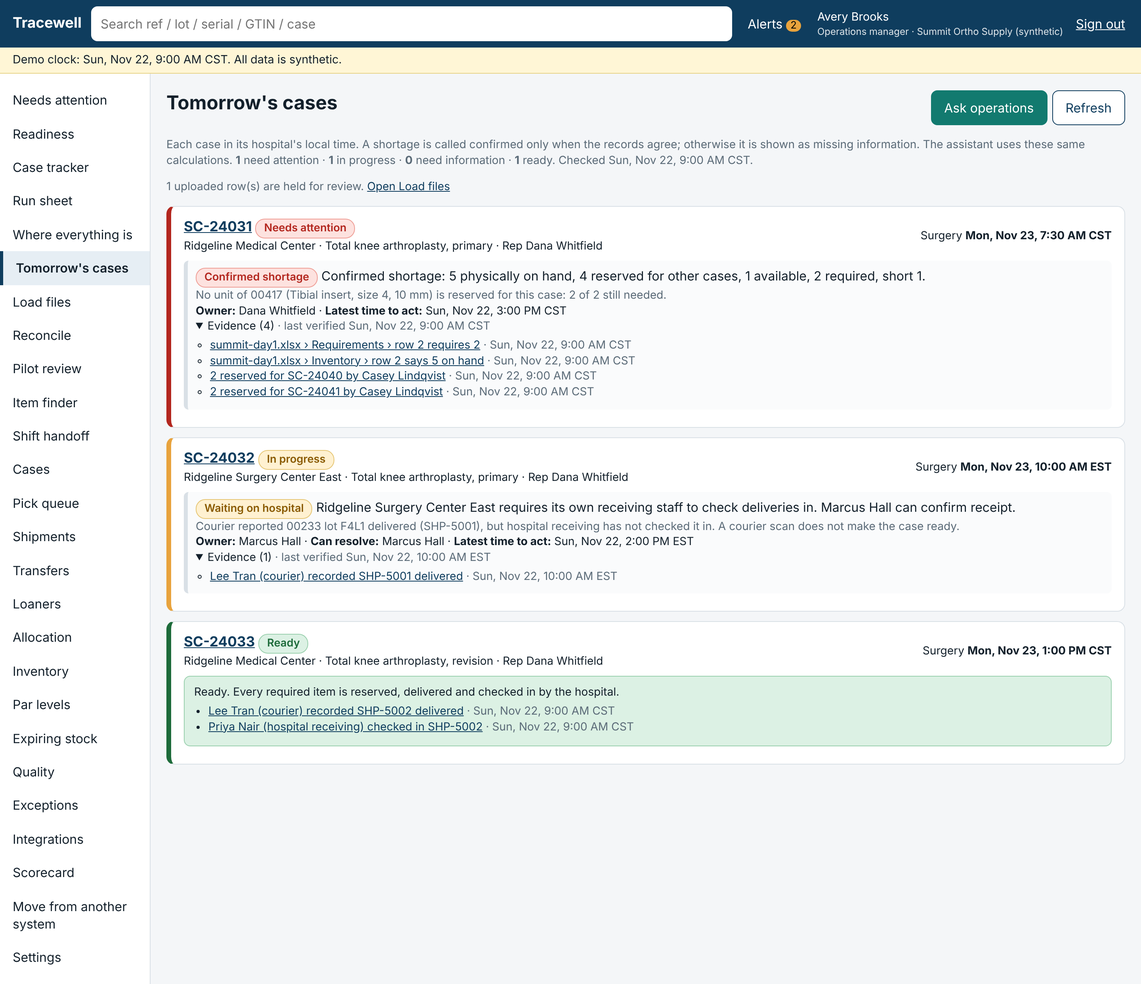
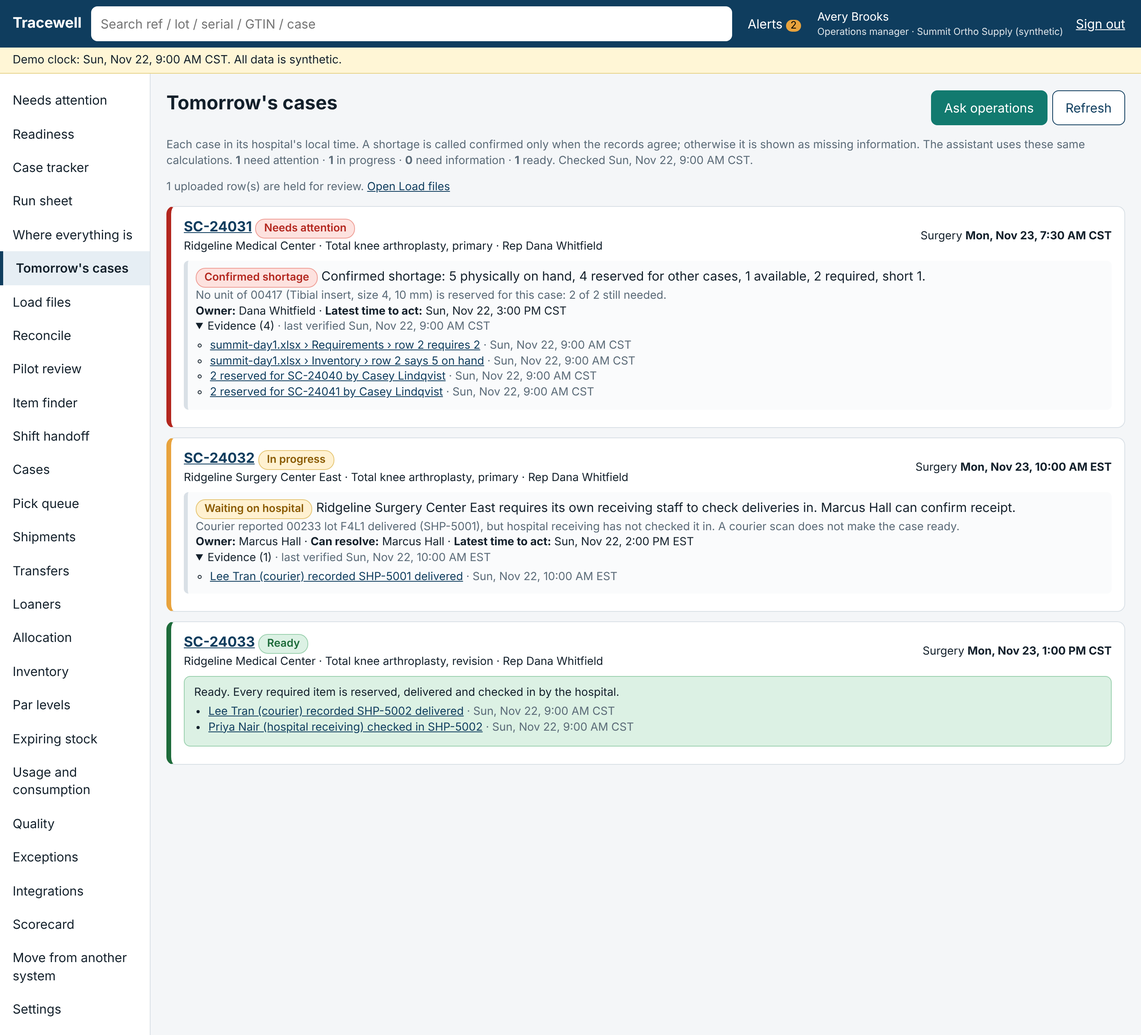
Usage and consumption, with four weeks of finished cases in the demo
- Usage report over 30/60/90 days from closeout records: units by item, hospital and rep; waste;
  days between uses; per-week average; weeks of cover; value at contract price; weekly bars.
- Replacements owed after finished cases, in the queue, with mark-replaced (who, when, order ref)
  and average days from use to replaced. Marking replaced never adds stock.
- Demo: nine finished cases over four weeks recorded through the closeout services, with
  fictional contracts and prices so they price cleanly.
- Case tracker counts sealed units left at a hospital after a finished case.
- A hosted review rebuilds its demo when the demo's contents change.

Claude-Session: https://claude.ai/code/session_01Axjjo4ZYpwGvBPpNfVL9QP

diff --git a/src/server/ops/usage.ts b/src/server/ops/usage.ts
@@ -1,0 +1,74 @@
+/**
+ * Usage and consumption, from what reps recorded at closeout: what was used, where, by whom, how often,
+ * what it is worth at contract price, and which replacements are still owed. These are counts of recorded
+ * events over the chosen period. Rates are simple averages over that period, not forecasts.
+ */
+import { AppError, Db, one, rows } from '../db.js';
+import { Ctx, requirePerm } from '../perms.js';
+import { now, nowIso } from '../clock.js';
+import { audit } from '../audit.js';
+import { fmtLocal } from '../domain/cases.js';
+import { localYmd } from '../time.js';
+
+const USED = ['implanted', 'wasted', 'opened_unused', 'damaged', 'missing']; // leaves usable stock; returned_sealed does not
+
+export async function usageReport(db: Db, ctx: Ctx & { tenantTz?: string }, opts: { days?: number } = {}) {
+  requirePerm(ctx, 'inventory.view');
+  const days = [30, 60, 90].includes(Number(opts.days)) ? Number(opts.days) : 30;
+  const t = now(); const tz = ctx.tenantTz ?? 'UTC'; const since = new Date(t.getTime() - days * 86400e3);
+  const ev = await rows(db, `select ue.id, ue.disposition, coalesce(ue.reviewed_qty_units, ue.qty_units, 0)::int qty, ue.occurred_at, ue.catalog_item_id, ci.ref, ci.description, c.id case_id, c.case_ref, f.name facility, u.display_name rep,
+      coalesce(ch.amount_cents,0)::int amount, ch.status charge_status
+    from usage_events ue join cases c on c.id=ue.case_id join facilities f on f.id=c.facility_id join catalog_items ci on ci.id=ue.catalog_item_id left join users u on u.id=c.rep_user_id left join charges ch on ch.usage_event_id=ue.id
+    where ue.status='recorded' and ue.occurred_at >= $1 order by ue.occurred_at`, [since.toISOString()]);
+  const stock = new Map((await rows(db, `select st.catalog_item_id, coalesce(sum(b.qty),0)::int usable from stock_balances b join stock_items st on st.id=b.stock_item_id join locations l on l.id=b.location_id
+     where b.qty>0 and b.condition='sealed' and l.kind in ('warehouse','trunk','consignment','hospital_receiving') and not exists (select 1 from quality_holds h where h.stock_item_id=b.stock_item_id and h.status='active') group by 1`)).map((r) => [r.catalog_item_id, r.usable]));
+  const repl = await rows(db, `select rp.id, rp.catalog_item_id, rp.qty, rp.status, rp.created_at, rp.done_at, rp.order_ref, ci.ref, ci.description, c.case_ref, c.id case_id, f.name facility, du.display_name done_by
+     from replenishments rp join catalog_items ci on ci.id=rp.catalog_item_id join cases c on c.id=rp.case_id join facilities f on f.id=c.facility_id left join users du on du.id=rp.done_by where rp.action='replace' and rp.status in ('open','done') order by rp.created_at`);
+  const weeks = Math.max(1, days / 7);
+  const items = new Map<string, any>(); const by = (m: Map<string, any>, k: string) => { if (!m.has(k)) m.set(k, { name: k, cases: new Set<string>(), units: 0, value: 0 }); return m.get(k); };
+  const hospitals = new Map<string, any>(), reps = new Map<string, any>(); const disp: Record<string, number> = {}; const caseSet = new Set<string>(); let value = 0;
+  for (const e of ev) {
+    disp[e.disposition] = (disp[e.disposition] ?? 0) + e.qty; caseSet.add(e.case_id);
+    if (!items.has(e.catalog_item_id)) items.set(e.catalog_item_id, { catalogItemId: e.catalog_item_id, ref: e.ref, description: e.description, used: 0, implanted: 0, wasted: 0, openedUnused: 0, returnedSealed: 0, value: 0, cases: new Map<string, string>() });
+    const it = items.get(e.catalog_item_id);
+    if (e.disposition === 'returned_sealed') { it.returnedSealed += e.qty; continue; }
+    if (!USED.includes(e.disposition)) continue;
+    it.used += e.qty; if (e.disposition === 'implanted') it.implanted += e.qty; if (e.disposition === 'wasted') it.wasted += e.qty; if (e.disposition === 'opened_unused') it.openedUnused += e.qty;
+    it.value += e.amount; value += e.amount; it.cases.set(e.case_id, new Date(e.occurred_at).toISOString());
+    for (const g of [by(hospitals, e.facility), by(reps, e.rep ?? 'No rep')]) { g.cases.add(e.case_id); g.units += e.qty; g.value += e.amount; }
+  }
+  const itemRows = [...items.values()].map((it) => {
+    const dates = [...it.cases.values()].sort(); const n = dates.length;
+    const gap = n > 1 ? (new Date(dates[n - 1]).getTime() - new Date(dates[0]).getTime()) / 86400e3 / (n - 1) : null;
+    const perWeek = it.used / weeks; const usable = stock.get(it.catalogItemId) ?? 0;
+    const owed = repl.filter((r) => r.catalog_item_id === it.catalogItemId && r.status === 'open').reduce((a, r) => a + r.qty, 0);
+    return { catalogItemId: it.catalogItemId, ref: it.ref, description: it.description, used: it.used, implanted: it.implanted, wasted: it.wasted, openedUnused: it.openedUnused, returnedSealed: it.returnedSealed, cases: n,
+      lastUsedLocal: n ? fmtLocal(dates[n - 1], tz) : null, daysBetweenUses: gap != null ? Math.round(gap * 10) / 10 : null, perWeek: Math.round(perWeek * 10) / 10, usableNow: usable,
+      weeksOfCover: perWeek > 0 ? Math.round((usable / perWeek) * 10) / 10 : null, replacementsOwed: owed, valueCents: it.value };
+  }).sort((a, b) => b.used - a.used || a.ref.localeCompare(b.ref));
+  // Units used per calendar week (Monday start), oldest first.
+  const wk = new Map<string, number>(); const monday = (d: Date) => { const y = localYmd(d, tz); const dt = new Date(y + 'T12:00:00Z'); dt.setUTCDate(dt.getUTCDate() - ((dt.getUTCDay() + 6) % 7)); return dt.toISOString().slice(0, 10); };
+  for (let d = new Date(since); d <= t; d = new Date(d.getTime() + 7 * 86400e3)) wk.set(monday(d), 0); wk.set(monday(t), wk.get(monday(t)) ?? 0);
+  for (const e of ev) if (USED.includes(e.disposition)) wk.set(monday(new Date(e.occurred_at)), (wk.get(monday(new Date(e.occurred_at))) ?? 0) + e.qty);
+  const done = repl.filter((r) => r.status === 'done' && r.done_at);
+  const avgReplace = done.length ? Math.round((done.reduce((a, r) => a + (new Date(r.done_at).getTime() - new Date(r.created_at).getTime()) / 86400e3, 0) / done.length) * 10) / 10 : null;
+  const open = repl.filter((r) => r.status === 'open');
+  const flat = (m: Map<string, any>) => [...m.values()].map((g) => ({ name: g.name, cases: g.cases.size, units: g.units, valueCents: g.value })).sort((a, b) => b.units - a.units);
+  const usedTotal = itemRows.reduce((a, r) => a + r.used, 0);
+  return { days, sinceLocal: fmtLocal(since, tz), asOfLocal: fmtLocal(t, tz),
+    summary: { cases: caseSet.size, unitsUsed: usedTotal, implanted: disp.implanted ?? 0, wasted: disp.wasted ?? 0, openedUnused: disp.opened_unused ?? 0, returnedSealed: disp.returned_sealed ?? 0, valueCents: value,
+      wastePct: usedTotal ? Math.round((((disp.wasted ?? 0) + (disp.opened_unused ?? 0)) / usedTotal) * 1000) / 10 : 0, replacementsOwed: open.reduce((a, r) => a + r.qty, 0), avgDaysToReplace: avgReplace, replaced: done.length },
+    items: itemRows, hospitals: flat(hospitals), reps: flat(reps), weeks: [...wk.entries()].sort().map(([week, units]) => ({ week, units })),
+    owed: open.map((r) => ({ id: r.id, ref: r.ref, description: r.description, qty: r.qty, caseRef: r.case_ref, caseId: r.case_id, facility: r.facility, sinceLocal: fmtLocal(r.created_at, tz), daysOpen: Math.floor((t.getTime() - new Date(r.created_at).getTime()) / 86400e3) })),
+    note: 'Counts of what reps recorded at closeout in this period. "Per week" and "weeks of cover" are simple averages over the period, not a forecast. Value is draft charges at contract price, not invoices.' };
+}
+
+/** Record that a replacement owed after a case has been restocked. Does not move stock: the units arrive through a count, an upload or a receipt. */
+export async function markReplaced(db: Db, ctx: Ctx, input: { ids: string[]; orderRef?: string }) {
+  requirePerm(ctx, 'par.manage');
+  const ids = [...new Set(input.ids ?? [])];
+  if (!ids.length) throw new AppError(400, 'none_selected', 'Choose at least one line');
+  const r = await db.query(`update replenishments set status='done', done_at=$2, done_by=$3, order_ref=$4 where id = any($1) and status='open' and action='replace' returning id`, [ids, nowIso(), ctx.userId, input.orderRef?.trim() || null]);
+  await audit(db, ctx, 'replenishment.done', 'replenishment', null, { ids: r.rows.map((x) => x.id), orderRef: input.orderRef ?? null });
+  return { marked: r.rowCount, remaining: (await one(db, `select coalesce(sum(qty),0)::int n from replenishments where action='replace' and status='open'`)).n };
+}

diff --git a/src/server/pilot/demo-account.ts b/src/server/pilot/demo-account.ts
@@ -41,6 +41,8 @@ async function workbook(sheet: string, head: string[], body: string[][]) {
   return Buffer.from(await wb.xlsx.writeBuffer());
 }
 
+/** Raised whenever the demo's contents change, so a hosted review rebuilds itself on the next deploy. */
+export const DEMO_VERSION = 3;
 export interface DemoOpts {
   day?: string;
   /** Review deployment: named sign-ins with their own passwords; every built-in persona gets an unguessable password. */
@@ -142,6 +144,64 @@ export async function seedDemoAccount(opts: DemoOpts = {}) {
   // Labels carry GS1 identifiers so the phone can scan them.
   await tx(async (db) => { let n = 0; for (const it of await rows(db, `select id from catalog_items order by ref`)) await db.query(`update catalog_items set unit_gtin=$2 where id=$1`, [it.id, gtinWithCheckDigit('0061414' + String(200100 + ++n))]); });
 
+  // ---- Four weeks of finished cases, so usage and consumption have something real to show ----
+  // Each one is recorded through the same services a rep's closeout uses, at the time it happened.
+  const HIST: [string, number, 'mrm' | 'hsc', [string, number, 'implanted' | 'wasted' | 'opened_unused' | 'returned_sealed'][]][] = [
+    ['NL-2961', 20, 'mrm', [['00417', 1, 'implanted'], ['00233', 1, 'implanted'], ['08810', 3, 'implanted']]],
+    ['NL-2964', 18, 'hsc', [['00417', 1, 'implanted'], ['00612', 1, 'implanted'], ['08810', 2, 'implanted'], ['08810', 1, 'wasted']]],
+    ['NL-2970', 15, 'mrm', [['00417', 1, 'implanted'], ['00720', 1, 'implanted']]],
+    ['NL-2975', 13, 'mrm', [['00233', 1, 'implanted'], ['08810', 4, 'implanted']]],
+    ['NL-2981', 11, 'hsc', [['00417', 1, 'implanted'], ['00720', 1, 'implanted'], ['00550', 1, 'implanted']]],
+    ['NL-2988', 8, 'mrm', [['00417', 1, 'implanted'], ['00233', 1, 'implanted'], ['00233', 1, 'opened_unused']]],
+    ['NL-2995', 6, 'hsc', [['00612', 1, 'implanted'], ['08810', 3, 'implanted']]],
+    ['NL-3004', 4, 'mrm', [['00417', 1, 'implanted'], ['00720', 1, 'implanted'], ['08810', 2, 'implanted']]],
+    ['NL-3011', 3, 'hsc', [['00417', 1, 'implanted'], ['00550', 1, 'returned_sealed']]],
+  ];
+  // Fictional contracts and prices for both hospitals, so finished cases price cleanly.
+  await tx(async (db) => {
+    for (const [fid, name] of [[ids.mrm, 'Marlowe Regional implant agreement'], [ids.hsc, 'Harlan Surgery Center implant agreement']]) {
+      const k = (await db.query(`insert into contracts(tenant_id,facility_id,name) values ($1,$2,$3) returning id`, [T, fid, name])).rows[0].id;
+      const v = (await db.query(`insert into contract_versions(tenant_id,contract_id,version,effective_from,approved_by) values ($1,$2,1,'2026-01-01','Account setup') returning id`, [T, k])).rows[0].id;
+      for (const [ref, cents] of [['00417', 92000], ['00233', 318000], ['00612', 318000], ['00720', 205000], ['00550', 64000], ['08810', 7800]] as const)
+        await db.query(`insert into contract_prices(tenant_id,contract_version_id,catalog_item_id,unit_price_cents,price_date) values ($1,$2,(select id from catalog_items where ref=$3),$4,'2026-01-01')`, [T, v, ref, cents]);
+      const rule = (d: string, c: string, r: string, txt: string) => db.query(`insert into contract_rules(tenant_id,contract_version_id,disposition,charge_action,replenish_action,billing_mode,rule_text) values ($1,$2,$3,$4,$5,'bill_and_replace',$6)`, [T, v, d, c, r, txt]);
+      await rule('implanted', 'charge', 'replace', 'Implant placed: bill at contract price and replace.');
+      await rule('wasted', 'charge', 'replace', 'Opened and wasted in the case: billed and replaced.');
+      await rule('opened_unused', 'no_charge', 'replace', 'Opened, not used: no charge; replace.');
+      await rule('damaged', 'no_charge', 'replace', 'Damaged: no charge; replace.');
+      await rule('returned_sealed', 'no_charge', 'none', 'Returned sealed: no charge; back to stock.');
+      await rule('missing', 'review', 'review', 'Missing: finance review.');
+    }
+  });
+  for (const [ref, back, site, lines] of HIST) {
+    let d = DAY; for (let i = 0; i < back; i++) d = prevBiz(d);
+    const tz = site === 'mrm' ? TZ : EAST; const repKey = site === 'mrm' ? 'repDana' : 'repChris'; const recv = site === 'mrm' ? ids.lMrm : ids.lHsc; const rep = await ctx(repKey);
+    await setClock(zoned(prevBiz(d), '14:00', tz));            // the afternoon before: entered, stock checked in at the hospital, reserved
+    const start = zoned(d, '08:00', tz);
+    const need = new Map<string, number>(); for (const [item, n] of lines) need.set(item, (need.get(item) ?? 0) + n);
+    const cid = await tx(async (db) => {
+      const c = (await db.query(`insert into cases(tenant_id, case_ref, facility_id, procedure, surgeon_ref, scheduled_start, status, rep_user_id, created_by, created_at) values ($1,$2,$3,$4,$5,$6,'scheduled',$7,$8,$9) returning id`,
+        [T, ref, site === 'mrm' ? ids.mrm : ids.hsc, P, site === 'mrm' ? 'Surgeon S-104' : 'Surgeon S-221', start.toISOString(), ids[repKey], ids.coordinator, now().toISOString()])).rows[0].id as string;
+      for (const [item, n] of need) {
+        const ci = await one(db, `select id from catalog_items where ref=$1`, [item]);
+        const rq = (await db.query(`insert into case_requirements(tenant_id, case_id, catalog_item_id, qty, mandatory) values ($1,$2,$3,$4,true) returning id`, [T, c, ci.id, n])).rows[0].id;
+        const si = (await db.query(`insert into stock_items(tenant_id, catalog_item_id, lot_number, expiry_date, is_serial, data_source) values ($1,$2,$3,$4,false,'seed') on conflict (tenant_id, catalog_item_id, lot_number) where serial_number is null do update set lot_number=excluded.lot_number returning id`, [T, ci.id, `H${item.slice(-3)}`, addDaysYmd(DAY, 400)])).rows[0].id;
+        await applyMovement(db, coord, { stockItemId: si, qty: n, ownerPartyId: ids.dist, to: { locationId: recv, condition: 'sealed' }, type: 'receipt', reason: `Delivered and checked in for ${ref}`, caseId: c, idempotencyKey: `hist:${ref}:${item}` });
+        const { reserve } = await import('../domain/inventory.js');
+        await reserve(db, coord, { caseId: c, requirementId: rq, stockItemId: si, locationId: recv, ownerPartyId: ids.dist, qty: n });
+      }
+      return c;
+    });
+    await setClock(new Date(start.getTime() + 150 * 60e3));    // after the surgery: the rep records what was used and closes out
+    const { recordUsage, submitCloseout } = await import('../domain/closeout.js');
+    let k = 0;
+    for (const [item, n, disp] of lines) { const r = await tx((db) => recordUsage(db, rep, { clientEventId: `hist:${ref}:${++k}`, caseId: cid, disposition: disp, entryMethod: 'manual', manual: { ref: item, lot: `H${item.slice(-3)}` }, qtyUnits: n })); if (r.status !== 'recorded') throw new Error(`history ${ref} ${item}: ${r.reviewReason}`); }
+    await tx((db) => submitCloseout(db, rep, cid, {}));
+    // Older cases have had their replacements restocked two business days later; the last few are still owed.
+    if (back >= 8) { await setClock(zoned(nextBiz(d, 2), '11:00', TZ)); await tx(async (db) => { const { markReplaced } = await import('../ops/usage.js'); const open = await rows(db, `select id from replenishments where case_id=$1 and status='open' and action='replace'`, [cid]); if (open.length) await markReplaced(db, coord, { ids: open.map((o) => o.id), orderRef: `PO-${ref.slice(3)}` }); }); }
+  }
+  await setClock(zoned(prev, '15:40', TZ));
+
   // Loaner instrument trays (serialized), with an approved manifest.
   const trayIds = await tx(async (db) => {
     const mfr = (await one(db, `select id from parties where kind='manufacturer'`)).id;
@@ -210,5 +270,6 @@ export async function seedDemoAccount(opts: DemoOpts = {}) {
     await par(ids.lwh, '00417', 6); await par(ids.lwh, '00233', 4); await par(ids.lwh, '00550', 2); await par(ids.lwh, '00720', 3); await par(ids.lChris, '00417', 1); await par(ids.lDana, '00720', 1);
   });
   await setClock(zoned(DAY, '09:00', TZ));
+  await q(`insert into system_settings(key,value) values('demo_version',$1) on conflict(key) do update set value=excluded.value`, [JSON.stringify(DEMO_VERSION)]);
   return { tenantId: T, day: DAY, tomorrow };
 }

diff --git a/src/web/pages/Usage.tsx b/src/web/pages/Usage.tsx
@@ -1,0 +1,47 @@
+/** Usage and consumption: what was used, where, by whom, how often, its value at contract price, and replacements still owed. */
+import React, { useState } from 'react';
+import { Link } from 'react-router-dom';
+import { useData, useMe, Err } from '../App';
+import { money, post } from '../lib/api';
+
+export function UsageReport() {
+  const { can } = useMe();
+  const [days, setDays] = useState(30);
+  const { data, error, reload } = useData<any>(`/api/usage-report?days=${days}`, [days]);
+  const [sel, setSel] = useState<Record<string, boolean>>({}); const [po, setPo] = useState(''); const [msg, setMsg] = useState<string | null>(null); const [err, setErr] = useState<string | null>(null);
+  const s = data?.summary; const max = Math.max(1, ...(data?.weeks ?? []).map((w: any) => w.units));
+  const ids = Object.keys(sel).filter((k) => sel[k]);
+  const mark = async () => { setErr(null); setMsg(null); try { const r = await post('/api/replenishments/done', { ids, orderRef: po }); setMsg(`${r.marked} line(s) marked replaced. ${r.remaining} unit(s) still owed.`); setSel({}); setPo(''); reload(); } catch (e: any) { setErr(e.message); } };
+  return (<div>
+    <h1>Usage and consumption</h1>
+    <p className="muted small">{data ? `${data.sinceLocal} to ${data.asOfLocal}. ` : ''}{data?.note}</p>
+    <div className="row tight" role="group" aria-label="Period">{[30, 60, 90].map((d) => <button key={d} className={days === d ? '' : 'secondary'} aria-pressed={days === d} onClick={() => setDays(d)}>Last {d} days</button>)}</div>
+    <Err e={error ?? err} />{msg && <div className="ok" role="status">{msg}</div>}
+    {s && <div className="nums" data-testid="usage-summary">
+      <div className="num"><span className="num-v">{s.cases}</span><span className="num-l">cases finished</span></div>
+      <div className="num"><span className="num-v">{s.unitsUsed}</span><span className="num-l">units used</span></div>
+      <div className="num"><span className="num-v">{s.implanted}</span><span className="num-l">implanted</span></div>
+      <div className={`num ${s.wasted + s.openedUnused ? 'bad' : ''}`}><span className="num-v">{s.wasted + s.openedUnused}</span><span className="num-l">wasted or opened unused ({s.wastePct}%)</span></div>
+      <div className="num"><span className="num-v">{money(s.valueCents)}</span><span className="num-l">at contract price (draft)</span></div>
+      <div className={`num ${s.replacementsOwed ? 'bad' : 'good'}`}><span className="num-v">{s.replacementsOwed}</span><span className="num-l">replacement units owed</span></div>
+      <div className="num"><span className="num-v">{s.avgDaysToReplace ?? '—'}</span><span className="num-l">avg days, use to replaced</span></div></div>}
+    {data && <section className="card"><h2 style={{ marginTop: 0 }}>Units used per week</h2>
+      <div className="bars" role="img" aria-label={`Units used per week: ${data.weeks.map((w: any) => `${w.week} ${w.units}`).join(', ')}`}>{data.weeks.map((w: any) => <div key={w.week} className="bar-col"><span className="small">{w.units}</span><div className="bar" style={{ height: `${Math.round((w.units / max) * 100)}%` }} /><span className="tiny muted">wk of {w.week.slice(5)}</span></div>)}</div></section>}
+    <h2>By item</h2>
+    <div className="table-wrap"><table aria-label="Usage by item"><thead><tr><th>Item</th><th>Used</th><th>Implanted</th><th>Wasted / opened unused</th><th>Cases</th><th>Last used</th><th>Days between uses</th><th>Per week</th><th>Usable now</th><th>Weeks of cover</th><th>Owed</th><th>Value</th></tr></thead>
+      <tbody>{data?.items.map((r: any) => <tr key={r.catalogItemId} data-item={r.ref}><td><strong>{r.ref}</strong><div className="small muted">{r.description}</div></td><td><strong>{r.used}</strong></td><td>{r.implanted}</td><td>{r.wasted + r.openedUnused || '—'}</td><td>{r.cases}</td><td className="small">{r.lastUsedLocal ?? '—'}</td><td>{r.daysBetweenUses ?? '—'}</td><td>{r.perWeek}</td><td>{r.usableNow}</td>
+        <td>{r.weeksOfCover == null ? '—' : <span className={`badge ${r.weeksOfCover < 1 ? 'st-blocked' : r.weeksOfCover < 2 ? 'st-at_risk' : 'st-ready'}`}>{r.weeksOfCover}</span>}</td><td>{r.replacementsOwed || '—'}</td><td>{money(r.valueCents)}</td></tr>)}
+        {data && !data.items.length && <tr><td colSpan={12} className="muted">No usage was recorded in this period.</td></tr>}</tbody></table></div>
+    <div className="row" style={{ alignItems: 'flex-start' }}>
+      {[['By hospital', data?.hospitals], ['By rep', data?.reps]].map(([title, list]: any) => <div key={title} style={{ flex: 1, minWidth: 300 }}><h2>{title}</h2><div className="table-wrap"><table aria-label={title}><thead><tr><th>{title.slice(3)}</th><th>Cases</th><th>Units</th><th>Value</th></tr></thead>
+        <tbody>{list?.map((g: any) => <tr key={g.name}><td>{g.name}</td><td>{g.cases}</td><td>{g.units}</td><td>{money(g.valueCents)}</td></tr>)}</tbody></table></div></div>)}
+    </div>
+    <h2>Replacements owed ({data?.owed.length ?? 0})</h2>
+    <p className="small muted">Each line is stock a contract says must be replaced after a case. Marking it replaced records when and against which order; it does not add stock (that arrives through a receipt, count or upload).</p>
+    <div className="table-wrap"><table aria-label="Replacements owed"><thead><tr><th></th><th>Item</th><th>Qty</th><th>From case</th><th>Hospital</th><th>Owed since</th><th>Days open</th></tr></thead>
+      <tbody>{data?.owed.map((r: any) => <tr key={r.id}><td>{can('par.manage') && <input type="checkbox" aria-label={`Select ${r.ref} from ${r.caseRef}`} checked={!!sel[r.id]} onChange={(e) => setSel({ ...sel, [r.id]: e.target.checked })} />}</td><td>{r.ref}<div className="small muted">{r.description}</div></td><td>{r.qty}</td><td><Link to={`/cases/${r.caseId}`}>{r.caseRef}</Link></td><td>{r.facility}</td><td className="small">{r.sinceLocal}</td><td>{r.daysOpen}</td></tr>)}
+        {data && !data.owed.length && <tr><td colSpan={7} className="muted">Nothing is owed.</td></tr>}</tbody></table></div>
+    {can('par.manage') && data?.owed.length > 0 && <div className="row"><label className="field">Order or PO reference (optional)<input value={po} onChange={(e) => setPo(e.target.value)} /></label><button disabled={!ids.length} onClick={mark}>Mark {ids.length || ''} replaced</button>
+      <button className="secondary" onClick={() => setSel(Object.fromEntries(data.owed.map((r: any) => [r.id, true])))}>Select all</button></div>}
+  </div>);
+}

diff --git a/tests/integration/command.test.ts b/tests/integration/command.test.ts
@@ -288,6 +288,44 @@ describe('Visibility views (fresh demo)', () => {
   });
 });
 
+describe('Usage and consumption (fresh demo)', () => {
+  beforeAll(async () => { T = (await seedDemoAccount({ day: '2026-11-23' })).tenantId; app = await httpApp(); });
+  it('totals match the recorded usage events and the ledger; finished cases price without exceptions', async () => {
+    const u = await get(U.ops, '/api/usage-report?days=30');
+    const db = (await tx((d) => d.query(`select coalesce(sum(qty_units) filter (where disposition<>'returned_sealed'),0)::int used, count(distinct case_id)::int cases from usage_events where status='recorded'`))).rows[0];
+    expect(u.summary).toMatchObject({ cases: db.cases, unitsUsed: db.used, implanted: 30, wasted: 1, openedUnused: 1, returnedSealed: 1 });
+    expect(u.items.reduce((a: number, r: any) => a + r.used, 0)).toBe(db.used);
+    expect((await tx((d) => d.query(`select coalesce(sum(qty),0)::int n from inventory_movements where movement_type='consume'`))).rows[0].n).toBe(u.summary.implanted + u.summary.wasted); // opened-unused is a condition change, not a consume
+    expect(u.summary.valueCents).toBe((await tx((d) => d.query(`select coalesce(sum(amount_cents),0)::int n from charges`))).rows[0].n);
+    expect((await tx((d) => d.query(`select count(*)::int n from exceptions where status='open' and kind like 'finance%'`))).rows[0].n).toBe(0);
+    const top = u.items[0];
+    expect(top).toMatchObject({ ref: '08810', used: 15, implanted: 14, wasted: 1, cases: 5, usableNow: 30 });
+    expect(top.perWeek).toBe(3.5); expect(top.weeksOfCover).toBe(8.6);
+    expect(u.items.find((r: any) => r.ref === '00417')).toMatchObject({ used: 7, cases: 7, replacementsOwed: 2 });
+    expect(u.hospitals.reduce((a: number, h: any) => a + h.units, 0)).toBe(db.used);
+    expect(u.weeks.reduce((a: number, w: any) => a + w.units, 0)).toBe(db.used);
+    expect((await (await app.as(U.recvMarlowe)).get('/api/usage-report')).statusCode).toBe(403);
+  });
+  it('replacements owed: listed, in the queue, and marking them replaced records who, when and the order', async () => {
+    const u = await get(U.ops, '/api/usage-report');
+    expect(u.summary).toMatchObject({ replacementsOwed: 9, avgDaysToReplace: expect.any(Number) });
+    expect(u.owed).toHaveLength(6);
+    expect((await get(U.ops, '/api/attention')).items.find((i: any) => i.kind === 'replacements').title).toBe('9 replacement unit(s) owed after 3 finished case(s)');
+    expect((await post(U.repDana, '/api/replenishments/done', { ids: [u.owed[0].id] })).statusCode).toBe(403);
+    const r = await post(U.coordinator, '/api/replenishments/done', { ids: u.owed.slice(0, 2).map((o: any) => o.id), orderRef: 'PO-7781' });
+    expect(r.json()).toMatchObject({ marked: 2, remaining: 5 });
+    expect((await post(U.coordinator, '/api/replenishments/done', { ids: [u.owed[0].id] })).json().marked).toBe(0);
+    expect((await tx((d) => d.query(`select count(*)::int n from replenishments where order_ref='PO-7781' and done_by is not null and done_at is not null`))).rows[0].n).toBe(2);
+    const before = (await get(U.ops, '/api/stock/where')).items.find((i: any) => i.ref === '08810').total;
+    expect(before).toBe(30); // marking replaced never adds stock
+  });
+  it('the tracker shows finished cases with usage recorded', async () => {
+    const t = await get(U.ops, '/api/case-tracker');
+    expect(t.recent.find((c: any) => c.caseRef === 'NL-3011')).toMatchObject({ stageName: 'Usage recorded', leftAtSite: 1 });
+    expect(t.toBringBack).toBeGreaterThanOrEqual(1);
+  });
+});
+
 describe('Declining a transfer', () => {
   it('releases the unit, records why, and tells the owner', async () => {
     T = (await seedDemoAccount({ day: '2026-11-23' })).tenantId; app = await httpApp();

diff --git a/src/server/ops/visibility.ts b/src/server/ops/visibility.ts
@@ -63,7 +63,7 @@ export async function caseTracker(db: Db, ctx: Ctx) {
       (select count(*)::int from usage_events ue where ue.case_id=c.id and ue.status='recorded') usage,
       (select count(*)::int from usage_events ue where ue.case_id=c.id and ue.status='needs_review') usage_review,
       (select coalesce(sum(b.qty),0)::int from stock_balances b join locations l on l.id=b.location_id where l.facility_id=c.facility_id and l.kind in ('hospital_receiving','hospital_spd') and b.qty>0
-         and b.stock_item_id in (select sl.stock_item_id from shipment_lines sl join shipments sh on sh.id=sl.shipment_id where sh.case_id=c.id)) left_at_site,
+         and b.condition='sealed' and b.stock_item_id in (select r.stock_item_id from reservations r where r.case_id=c.id and r.status='released')) left_at_site,
       (select string_agg(ln.ref, ', ') from loaner_requests ln where ln.case_id=c.id and ln.status in ('requested','confirmed','shipped','received')) loaners,
       (select string_agg(tr.ref, ', ') from transfer_requests tr where tr.case_id=c.id and tr.status='requested') transfers
     from cases c join facilities f on f.id=c.facility_id left join users u on u.id=c.rep_user_id
@@ -78,7 +78,7 @@ export async function caseTracker(db: Db, ctx: Ctx) {
     const idx = done.findIndex((d) => !d); const stage = idx === -1 ? STAGES.length - 1 : idx - 1;
     const waiting = idx === -1 ? null : idx === 1 ? (c.reqs === 0 ? 'Requirements have not been loaded' : `${c.need - c.held} unit(s) still to reserve${c.transfers ? ` (${c.transfers} awaiting acceptance)` : ''}${c.loaners ? ` (${c.loaners} on the way)` : ''}`)
       : idx === 2 ? (c.not_left ? `${c.not_left} shipment(s) not yet picked up` : 'Delivery not planned') : idx === 3 ? (c.delivered ? 'Hospital receiving to check the delivery in' : c.on_road ? 'On the road' : 'Not all items are at the hospital')
-      : idx === 4 ? (past ? 'Rep to complete the case and record what was used' : null) : idx === 5 ? (c.usage_review ? `${c.usage_review} usage record(s) need review` : 'Usage to be recorded') : (c.left_at_site ? `${c.left_at_site} unit(s) still at the hospital to bring back` : 'Closeout to finish');
+      : idx === 4 ? (past ? 'Rep to complete the case and record what was used' : null) : idx === 5 ? (c.usage_review ? `${c.usage_review} usage record(s) need review` : 'Usage to be recorded') : (c.left_at_site ? `${c.left_at_site} unit(s) still at the hospital to bring back` : 'Finance to finish billing');
     return { id: c.id, caseRef: c.case_ref, facility: c.facility, rep: c.rep, procedure: c.procedure, startLocal: fmtLocal(c.scheduled_start, c.timezone), enteredLocal: fmtLocal(c.created_at, c.timezone), past, status: c.status,
       stage, stageName: STAGES[stage], steps: STAGES.map((n, i) => ({ name: n, done: done[i] })), waitingOn: waiting, behind: !!waiting && (idx <= 3 ? hoursTo(c.scheduled_start, t) < 24 : past && hoursTo(c.scheduled_start, t) < -24),
       leftAtSite: doneCase ? c.left_at_site : 0, loaners: c.loaners, transfers: c.transfers };

diff --git a/src/web/pages/Review.tsx b/src/web/pages/Review.tsx
@@ -55,7 +55,7 @@ const STEPS: { title: string; changed: string; do: React.ReactNode; ask: string 
     do: <>Open <Link to="/quality">Quality</Link> and click <strong>RCL-001</strong>. The top of the page now gives the counts and a numbered action list with links to each affected case. Click <strong>Activate recall</strong>, then return to <Link to="/attention">Needs attention</Link>: the affected cases are flagged.</> },
   { title: 'The rest of the inventory lifecycle, and moving from RedSpot or Salesforce', changed: 'You said: par levels, expiration, allocation by priority rule, one system for the whole lifecycle.',
     ask: 'Overall: is this closer to worth a pilot? What is the one thing that would still have to be true first?',
-    do: <>New since your review: <Link to="/tracker">Case tracker</Link> (each case from entry to close, with what it is waiting on), <Link to="/stock/where">Where everything is</Link> (warehouse, reps, hospitals, in transit) and the <Link to="/run-sheet">Run sheet</Link> (what must leave, in deadline order). Also look at <Link to="/allocation">Allocation</Link> (demand against stock, first case entered served first), <Link to="/stock/par">Par levels</Link>, <Link to="/stock/expiring">Expiring stock</Link>, and <Link to="/move-in">Move from another system</Link>, which shows how records come across from RedSpot or Salesforce exports. Two things are deliberately not built yet because they need real history to be honest: demand forecasting and courier route optimization.</> },
+    do: <>New since your review: <Link to="/tracker">Case tracker</Link> (each case from entry to close, with what it is waiting on), <Link to="/stock/where">Where everything is</Link> (warehouse, reps, hospitals, in transit) the <Link to="/run-sheet">Run sheet</Link> (what must leave, in deadline order) and <Link to="/usage">Usage and consumption</Link> (what was used, where, how often, its value at contract price, and replacements still owed, from four weeks of finished demo cases). Also look at <Link to="/allocation">Allocation</Link> (demand against stock, first case entered served first), <Link to="/stock/par">Par levels</Link>, <Link to="/stock/expiring">Expiring stock</Link>, and <Link to="/move-in">Move from another system</Link>, which shows how records come across from RedSpot or Salesforce exports. Two things are deliberately not built yet because they need real history to be honest: demand forecasting and courier route optimization. The usage rates shown are simple averages, labeled as such.</> },
 ];
 
 export function ReviewGuide() {

diff --git a/src/server/ops/queue.ts b/src/server/ops/queue.ts
@@ -189,6 +189,8 @@ export async function attentionQueue(db: Db, actx: AssistantCtx, opts: { by?: st
       const below = par.rows.filter((r: any) => r.status === 'below');
       if (below.length) push({ id: 'par', priority: 'medium', kind: 'par', title: `${below.length} item(s) below par`, why: below.slice(0, 3).map((r: any) => `${r.ref} at ${r.location}: ${r.usable} usable against a par of ${r.par}`).join('; '), recommended: 'Replenish to par, or adjust the par if demand has changed.', link: '/stock/par' });
     }
+    if (can(actx, 'inventory.view')) { const o = await one(db, `select coalesce(sum(qty),0)::int n, count(distinct case_id)::int cases, min(created_at) oldest from replenishments where action='replace' and status='open'`);
+      if (o.n) push({ id: 'replace', priority: 'medium', kind: 'replacements', title: `${o.n} replacement unit(s) owed after ${o.cases} finished case(s)`, why: `The oldest has been owed since ${fmtLocal(o.oldest, tz)}. Until they are restocked, on-hand runs below what the contracts expect.`, recommended: 'Order or restock them, then mark them replaced.', link: '/usage' }); }
     if (can(actx, 'upload.view')) { const d = (await one(db, `select count(*)::int n from stock_discrepancies where status='open'`)).n; if (d) push({ id: 'reconcile', priority: 'medium', kind: 'reconcile', title: `${d} spreadsheet difference(s) waiting to be reconciled`, why: 'A newer file and the system disagree about a quantity. Readiness for affected cases is shown as "not confirmed" until someone decides.', recommended: 'Decide each difference.', link: '/reconcile' }); }
   }
   items.sort((a, b) => RANK[a.priority] - RANK[b.priority] || (a.minutesLeft ?? 1e9) - (b.minutesLeft ?? 1e9) || String(a.caseRef).localeCompare(String(b.caseRef)));

diff --git a/src/web/App.tsx b/src/web/App.tsx
@@ -11,6 +11,7 @@ import { Tomorrow, Reconcile, PilotReview, PilotReport } from './pages/Pilot';
 import { Attention, Transfers, TransferDetail, Loaners, LoanerDetail, ParLevels, Expiring, Allocation, OpsSettings } from './pages/Command';
 import { MoveIn } from './pages/MoveIn';
 import { WhereIsEverything, CaseTracker, RunSheet } from './pages/Visibility';
+import { UsageReport } from './pages/Usage';
 import { ReviewGuide, FeedbackList, FeedbackButton } from './pages/Review';
 import { Rescue } from './pages/Rescue';
 import { Shipments, ShipmentDetail, PickQueue } from './pages/Shipments';
@@ -117,6 +118,7 @@ const NAV: { to: string; label: string; perm?: string; roles?: string[]; review?
   { to: '/inventory', label: 'Inventory', perm: 'inventory.view' },
   { to: '/stock/par', label: 'Par levels', perm: 'inventory.view' },
   { to: '/stock/expiring', label: 'Expiring stock', perm: 'inventory.view' },
+  { to: '/usage', label: 'Usage and consumption', perm: 'inventory.view' },
   { to: '/import', label: 'Import', perm: 'import.run' },
   { to: '/counts', label: 'Counts', perm: 'count.perform' },
   { to: '/finance', label: 'Finance', perm: 'finance.manage' },
@@ -178,6 +180,7 @@ function Shell({ me, refresh }: { me: Me; refresh: () => void }) {
             <Route path="/settings/ops" element={<OpsSettings />} />
             <Route path="/move-in" element={<MoveIn />} />
             <Route path="/tracker" element={<CaseTracker />} />
+            <Route path="/usage" element={<UsageReport />} />
             <Route path="/run-sheet" element={<RunSheet />} />
             <Route path="/stock/where" element={<WhereIsEverything />} />
             <Route path="/today" element={<MobileHome />} />

diff --git a/src/server/app.ts b/src/server/app.ts
@@ -36,6 +36,7 @@ import * as opsTransfers from './ops/transfers.js';
 import * as opsLoaners from './ops/loaners.js';
 import * as opsStock from './ops/stock.js';
 import * as opsVis from './ops/visibility.js';
+import * as opsUsage from './ops/usage.js';
 import { AVAILABILITY_SQL, ledgerReconciliation, reverseMovement, reserve } from './domain/inventory.js';
 import { parseScan } from '../shared/gs1.js';
 
@@ -257,6 +258,8 @@ export async function buildApp() {
   r('GET', '/api/stock/where', 'inventory.view', async (db, ctx) => opsVis.whereIsEverything(db, await actxOf(db, ctx)));
   r('GET', '/api/case-tracker', 'board.view', async (db, ctx) => opsVis.caseTracker(db, ctx));
   r('GET', '/api/run-sheet', 'board.view', async (db, ctx) => opsVis.runSheet(db, await actxOf(db, ctx)));
+  r('GET', '/api/usage-report', 'inventory.view', async (db, ctx, req) => opsUsage.usageReport(db, await actxOf(db, ctx), { days: Number(Q(req).days) }));
+  r('POST', '/api/replenishments/done', 'par.manage', async (db, ctx, req) => opsUsage.markReplaced(db, ctx, B(req)));
   r('GET', '/api/stock/expiring', 'inventory.view', async (db, ctx) => opsStock.expiringStock(db, await actxOf(db, ctx)));
   r('GET', '/api/people', 'attention.view', async (db, ctx) => rows(db, `select id, display_name, role from users where active and facility_id is null and (role <> 'admin' or id=$1) order by display_name`, [ctx.userId]));
   r('POST', '/api/cases/:id/requirements/:reqId/reserve-available', 'reservation.manage', async (db, ctx, req) => reserveAvailable(db, await actxOf(db, ctx), P(req).id, P(req).reqId));

diff --git a/src/server/pilot/review.ts b/src/server/pilot/review.ts
@@ -6,7 +6,7 @@
 import { AppError, q, withTenant } from '../db.js';
 import { hashPassword } from '../auth.js';
 import type { Ctx } from '../perms.js';
-import { seedDemoAccount } from './demo-account.js';
+import { seedDemoAccount, DEMO_VERSION } from './demo-account.js';
 
 export const reviewMode = process.env.REVIEW_MODE === 'true';
 
@@ -33,8 +33,8 @@ export async function ensureDemo() {
   if (!reviewMode) return;
   const n = await q(`select to_regclass('public.tenants') t`);
   const empty = !n[0].t || Number((await q(`select count(*) n from tenants`))[0].n) === 0;
-  // A demo built by an earlier version has none of the newer set-up (planning settings, par levels): rebuild it. Feedback is kept.
-  const stale = !empty && await (async () => { const [t] = await q(`select id from tenants order by created_at limit 1`); return (await withTenant(t.id, (db) => db.query(`select count(*)::int n from ops_settings`))).rows[0].n === 0; })();
+  // A demo built by an earlier version lacks the newer contents (settings, par levels, finished cases): rebuild it. Feedback is kept.
+  const stale = !empty && (await q(`select value from system_settings where key='demo_version'`))[0]?.value !== DEMO_VERSION;
   if (empty || stale) { const r = await restartDemo(); console.log(`[review] demo account ${stale ? 'rebuilt for the new version' : 'built'} for ${r.day}`); }
   else await syncPeople();
   console.log(`[review] reviewer sign-in: ${problems.REVIEWER ?? 'active'}; owner sign-in: ${problems.OWNER ?? 'active'}`);

diff --git a/tests/integration/migration.test.ts b/tests/integration/migration.test.ts
@@ -37,7 +37,7 @@ afterAll(async () => { await client?.end(); });
 
 describe('Upgrade from the first build', () => {
   it('applies the new migration and preserves every existing record', async () => {
-    expect(admin(`select string_agg(name, ',' order by name) from schema_migrations`, DB)).toBe('001_core.sql,002_ownership_finance_alerts.sql,003_indexes.sql,004_assistant.sql,005_pilot.sql,006_command.sql');
+    expect(admin(`select string_agg(name, ',' order by name) from schema_migrations`, DB)).toBe('001_core.sql,002_ownership_finance_alerts.sql,003_indexes.sql,004_assistant.sql,005_pilot.sql,006_command.sql,007_usage.sql');
     for (const t of TABLES) expect(Number(admin(`select count(*) from ${t}`, DB))).toBe(before[t]);
     // Backfills: price history for old charges; receiving hours for old policies; alert timestamps.
     expect(Number(admin(`select count(*) from charge_events where kind='derived'`, DB))).toBe(before.charges);

diff --git a/src/web/styles.css b/src/web/styles.css
@@ -202,3 +202,5 @@ tr.row-bad > td { background:#fff5f4; }
 ol.track { list-style:none; display:flex; gap:3px; padding:0; margin:0; }
 ol.track li { width:22px; height:12px; border-radius:3px; background:#e3e8ed; } ol.track li.done { background:#3b9a5f; } ol.track li.next { background:#fff; box-shadow:inset 0 0 0 2px var(--brand); }
 @media print { header.top, nav#nav, .democlock, button, .fb-btn { display:none !important; } main { padding:0; } }
+.bars { display:flex; align-items:flex-end; gap:10px; height:150px; } .bar-col { display:flex; flex-direction:column; align-items:center; justify-content:flex-end; height:100%; flex:1; max-width:90px; }
+.bar { width:100%; min-height:2px; background:var(--brand); border-radius:4px 4px 0 0; }
